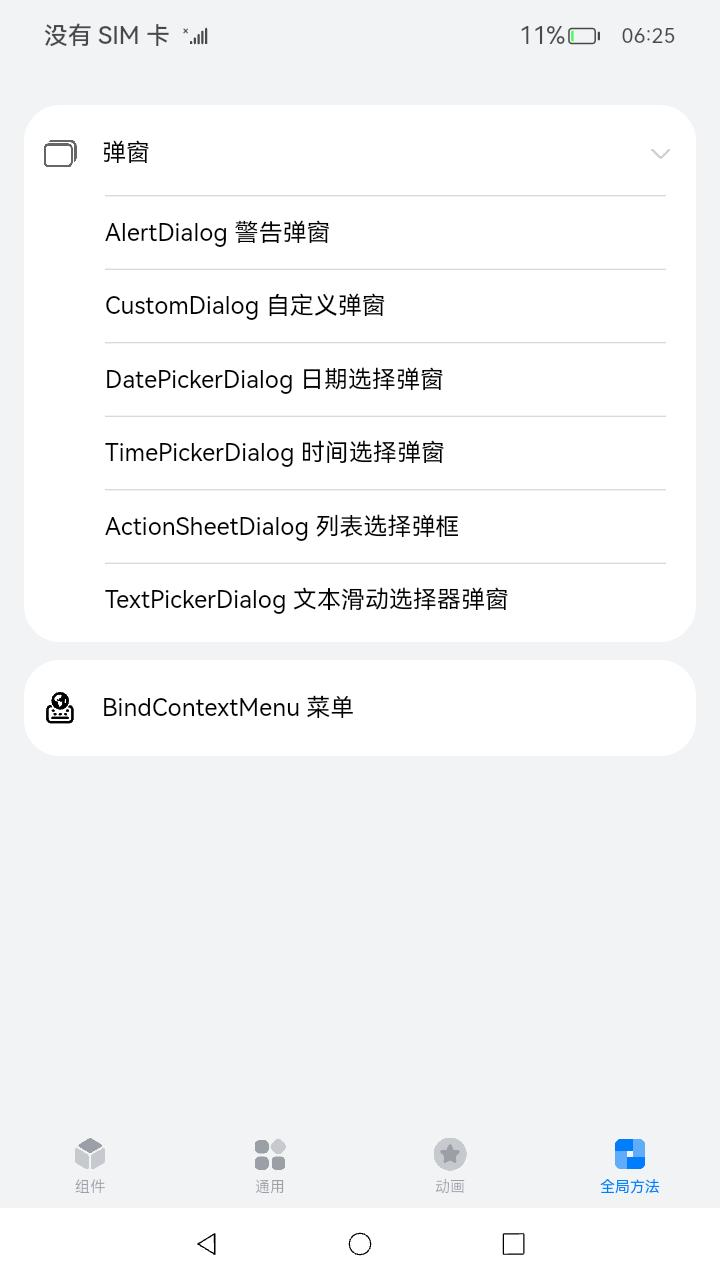
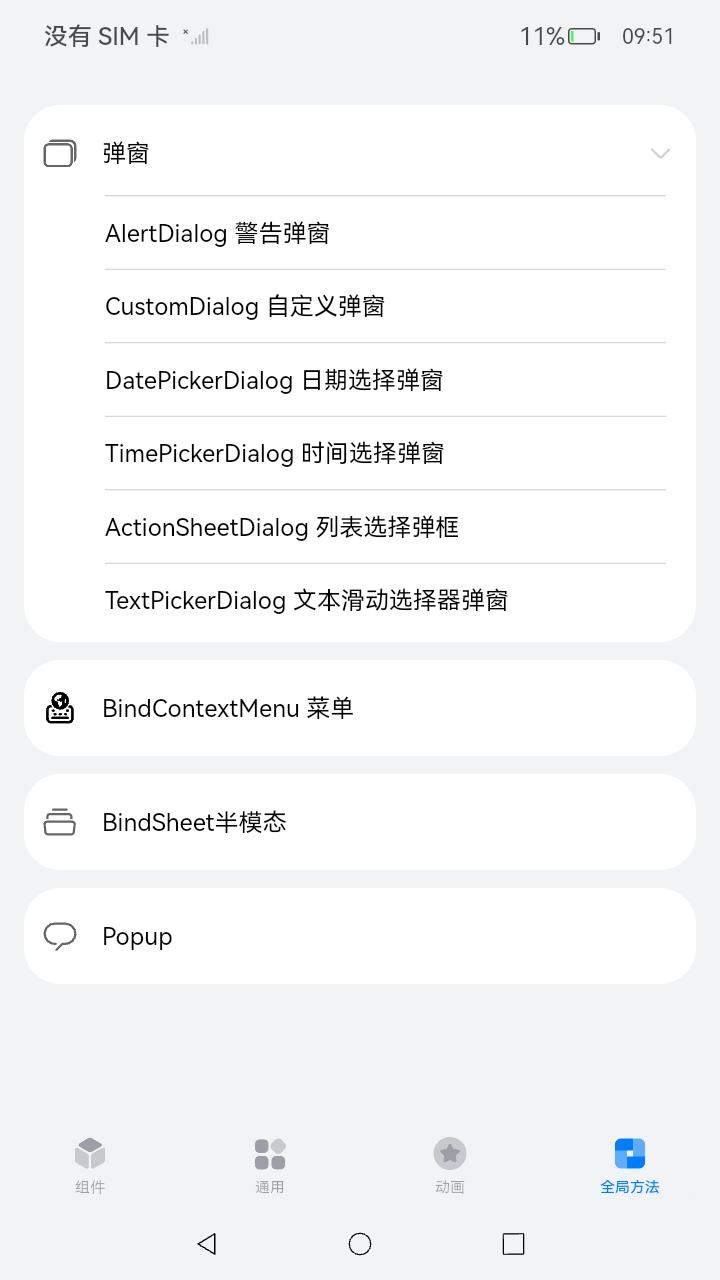
modify sample docs

diff --git a/code/UI/ArkTsComponentCollection/ComponentCollection/ohosTest.md b/code/UI/ArkTsComponentCollection/ComponentCollection/ohosTest.md
@@ -22,7 +22,7 @@
 | 验证LoadingProgress                  | 展开信息展示与动效，进入LoadingProgress           | 更改LoadingProgress的颜色                                                                               | 正确更改相应的颜色         | 是    | Pass |
 | 验证Marquee 跑马灯                      | 展开信息展示与动效，进入Marquee 跑马灯               | 更改Marquee样式，依次开始，停止跑马灯                                              | 正确反馈状态，依次运行，停止跑马灯 | 是    | Pass |
 | 验证TextTimer 文字计时器                  | 展开信息展示与动效，进入TextTimer 文字计时器           | 依次开始、暂停、重置、更换时间格式                                                   | 正确运行状态            | 是    | Pass |
-| 验证TextClock 文字时钟                   | 展开信息展示与动效，进入TextClock 文字时钟            | 依次点击开始、暂停、更改时钟样式                                                    | 正确运行状态并改变样式       | 是    | Pass |
+| 验证TextClock 文字时钟                   | 展开信息展示与动效，进入TextClock 文字时钟            | 依次点击开始、暂停、更改时钟样式、显示文字阴影、设置字体                                        | 正确运行状态并改变样式       | 是    | Pass |
 | 验证Progress 进度条                     | 展开信息展示与动效，进入Progress 进度条              | 调整进度条的进度                                                            | 正确显示进度条的进度        | 是    | Pass |
 | 验证Gauge 仪表盘                        | 展开信息展示与动效，进入Gauge 仪表盘                 | 调整仪表盘的value和strokeWidth                                             | 正确改变仪表盘的属性        | 是    | Pass |
 | 验证DataPanel 数据面板                   | 展开信息展示与动效，进入DataPanel 数据面板            |                                                                     | 正确显示数据面板动画        | 是    | Pass |
@@ -31,7 +31,7 @@
 | 验证ImageFit 切换                      | 展开信息展示与动效，进入ImageFit 切换         | 依次点击Radius按钮进行ImageFit模式切换                                                                           | ImageFit 模式切换成功   | 是    | Pass |
 | 验证Particle粒子效果                     | 展开信息展示与动效，进入Particle粒子效果         | 点击Particle粒子效果生成按钮                                                                                   | Particle粒子效果生成成功  | 是    | Pass |
 | 验证Span 行内文本                        | 展开文本与输入，进入Span 行内文本                   | 依次调整字符间距，装饰线类型，跨度线高度，颜色                                                                            | 依次改变对于属性          | 是    | Pass |
-| 验证TextInput 文本输入                   | 展开文本与输入，进入TextInput 文本输入              | 在输入框输入文本，可否选择对应文本段选中并高亮                                                                            | 正确显示输入文本          | 是    | Pass |
+| 验证TextInput 文本输入                   | 展开文本与输入，进入TextInput 文本输入              | 在输入框输入文本，可否选择对应文本段选中并高亮，长按文本获取、复制、粘贴文本，验证文本删除                                 | 正确显示输入文本          | 是    | Pass |
 | 验证Text 文本                          | 展开文本与输入，进入Text 文本                     | 依次更改字符间距，行高，对其类型，超长文本显示方式，装饰线，字体颜色，大小写                              | 依次更改对应属性          | 是    | Pass |
 | 验证RichText 富文本                     | 展开文本与输入，进入RichText 富文本                |                                                                     | 正确显示富文本           | 是    | Pass |
 | 验证ScrollBar 滚动条                    | 展开辅助，进入ScrollBar 滚动条                  | 依次纵向滚动，横向滚动                                                         | 正确滚动              | 是    | Pass |
@@ -103,12 +103,14 @@
 | 验证motionPath 路径动画                  | 进入motionPath 路径动画                     | 点击按钮                                                                | 按钮按照指定的路径发生改变     | 是    | Pass |
 | 验证ActionSheetDialogSample 列表选择弹框   | 展开弹窗，ActionSheetDialogSample 列表选择弹框   | 依次点击弹窗位置、是否关闭弹窗、偏移量、选项内容                                            | 正确展示响应弹窗          | 是    | Pass |
 | 验证TextPickerDialogSample 文本滑动选择器弹框 | 展开弹窗，TextPickerDialogSample 文本滑动选择器弹框 | 点击文字，滑动列表后点确定                                                       | 正确展示响应弹窗          | 是    | Pass |
-| 验证MenuSample 菜单                    | 展开弹窗，MenuSample 菜单                    | 鼠标右键点击、手指触摸长按                                                       | 正确展示响应弹窗          | 是    | Pass |
+| 验证MenuSample 菜单                    | 展开弹窗，MenuSample 菜单                    | 鼠标右键点击、手指触摸长按、调整menu宽度、选择纵向或者横向布局、长按图片1图片2     | 正确展示响应弹窗          | 是    | Pass |
+| 验证BindSheet半模态 | 进入BindSheet半模态 | 点击弹出样式、模糊背景材质设置属性，然后点击弹出半模态按钮，关闭允许页面交互按钮，下拉半模态界面，然后点击X退出半模态界面 | 正确显示效果 | 是 | Pass |
+| 验证Popup | 进入Popup                                           | 依次点击Popup高级组件按钮以及Placement下方的12个按钮         | 正确显示效果                       | 是       | Pass     |
 | 验证Swiper组件	                        | 展开滚动与滑动，进入swiper翻页	                   | 依次点击下一页、上一页、是否被禁用左右滑动切换功能、是否能纵向滑动、是否首尾循环、是否开启自动循环播放、滑动页面间隙、滑动切换的动画时长、自动播放的时间间隔、上下页边距               | 正确显示效果            | 是    | Pass |
-| 验证TextArea组件                       | 展开文本与输入，进入TextArea多行文本输入框             | 依次点击水平对齐、可否复制、placeholder文本颜色、输入框光标颜色、可否选择对应文本段选中并高亮                                               | 正确显示效果	           | 是    | Pass |
-| 验证PatternLock组件                    | 	展开文本与输入，进入PatternLock图案密码锁           | 依次滑动宫格宽高、圆点半径、连线宽度以及点击圆点未选中状态颜色、圆点激活状态颜色                                                             | 正确显示效果            | 是    | Pass |                            
-| 验证Search组件  	                      | 展开文本与输入，进入Search搜索框	                  | 依次点击水平对齐、可否复制、搜索框本文颜色	                                                                               | 正确显示效果            | 是    | Pass |                                               
-| 验证Row组件	                           | 展开行列与分栏，进入Row水平布局                     | 依次滑动元素间距以及点击交叉轴对齐样式、主轴对齐样式                                                                           | 正确显示效果            | 是    | Pass |                                             
+| 验证TextArea组件                       | 展开文本与输入，进入TextArea多行文本输入框             | 依次点击水平对齐、可否复制、placeholder文本颜色、输入框光标颜色、可否选择对应文本段选中并高亮、限制文本框输入字数                                | 正确显示效果	           | 是    | Pass |
+| 验证PatternLock组件                    | 	展开文本与输入，进入PatternLock图案密码锁           | 依次滑动宫格宽高、圆点半径、连线宽度以及点击圆点未选中状态颜色、圆点激活状态颜色                                                             | 正确显示效果            | 是    | Pass |
+| 验证Search组件  	                      | 展开文本与输入，进入Search搜索框	                  | 依次点击水平对齐、可否复制、搜索框本文颜色	                                                                               | 正确显示效果            | 是    | Pass |
+| 验证Row组件	                           | 展开行列与分栏，进入Row水平布局                     | 依次滑动元素间距以及点击交叉轴对齐样式、主轴对齐样式                                                                           | 正确显示效果            | 是    | Pass |
 | 验证RowSplit组件                       | 	进入RowSplit水平分割布局                     | 	点击拖拽开关                                                                                              | 	正确显示效果           | 是    | Pass |
 | 验证Column组件	                        | 进入Column垂直布局	                         | 依次滑动元素间距以及点击交叉轴对齐样式、主轴对齐样式                                                                           | 	正确显示效果           | 是    | Pass |
 | 验证ColumnSplit组件	                   | 进入ColumnSplit垂直分割布局	                  | 点击拖拽开关	                                                                                              | 正确显示效果            | 是    | Pass |
@@ -119,7 +121,7 @@
 | 验证List组件	                          | 展开列表与宫格，进入List列表容器	                   | 依次点击修改List参数中所有参数设置	                                                                                 | 正确显示效果            | 是    | Pass |
 | 验证ListItem组件                       | 	展开列表与宫格，进入Listitem	                  | 依次点击selectable	                                                                                      | 正确显示效果            | 是    | Pass |
 | 验证Grid组件	                          | 展开列表与宫格，进入Grid	                       | 依次点击columnsTemplate、rowsTemplate以及滑动columnGap	                                                       | 正确显示效果            | 是    | Pass |
-| 验证GridItem组件	                      | 展开列表与宫格，进入GridItem	                   | 依次点击修改起始行号、修改终点行号、修改起始列号、修改终点列号	                                                                     | 正确显示效果            | 是    | Pass |
+| 验证GridItem组件	                      | 展开列表与宫格，进入GridItem	                   | 依次点击修改起始行号、修改终点行号、修改起始列号、修改终点列号，选择多态样式	                                                            | 正确显示效果            | 是    | Pass |
 | 验证Navigation组件	                    | 展开导航、进入Navigation                     | 	点击去往第二个页面                                                                                           | 	正确显示效果           | 是    | Pass |
 | 验证Tabs组件                           | 展开导航，进入Tabs	                          | 依次点击修改Tabs的参数中的各个参数设置                                                                                | 正确显示效果            | 是    | Pass |
 | 验证TabContent组件	                    | 展开导航，进入TabContent	                    | 点击子页签/底部页签切换器	                                                                                       | 正确显示效果            | 是    | Pass |
@@ -136,5 +138,5 @@
 | 验证Image组件	                         | 展开图片视频与媒体，进入Image图片	                  | 依次点击缩放类型以及滑动裁剪高度、裁剪宽度以及点击渲染模式、重复样式	                                                                  | 正确显示效果            | 是    | Pass |
 | 验证ImageAnimator组件	                 | 展开图片视频与媒体，进入ImageAnimator逐帧播放图片       | 	依次点击start、pause、end、reserve、single、circulate	                                                       | 正确显示效果            | 是    | Pass |
 | 验证Video组件	                         | 展开图片视频与媒体，进入Video视频	                  | 依次点击自动播放、控制栏显示、静音、循环播放、视频显示模式、倍速	                                                                    | 正确显示效果            | 是    | Pass |
-| 验证XComponent组件	                    | 展开图片视频与媒体，进入XComponent绘制组件            | 	无操作	                                                                                                | 正确显示效果            | 是    | Pass |                                                                                    
-| 验证web组件	                           | 展开网页，进入web网页                          | 	无操作                                                                                                 | 	正确显示效果           | 是    | Pass |                                                           
+| 验证XComponent组件	                    | 展开图片视频与媒体，进入XComponent绘制组件            | 	无操作	                                                                                                | 正确显示效果            | 是    | Pass |
+| 验证web组件	                           | 展开网页，进入web网页                          | 	无操作                                                                                                 | 	正确显示效果           | 是    | Pass |

diff --git a/code/UI/ArkTsComponentCollection/ComponentCollection/README_zh.md b/code/UI/ArkTsComponentCollection/ComponentCollection/README_zh.md
@@ -310,6 +310,10 @@ entry/src/main/ets/
 |   |   |   |   |---TextPickerDialogSample.ets           // 文本滑动选择器弹窗
 |   |   |   |---menuSample
 |   |   |   |   |---MenuSample.ets                       // 菜单
+|   |   |   |---bindSheetSample
+|   |   |   |   |---BindSheetSample.ets                  // 半模态
+|   |   |   |---popUpSample
+|   |   |   |   |---PopUpSample.ets                      // Popup
 |   |---universal                                        // 详情页面
 |   |   |---UniversialData.ets
 |   |   |---events
@@ -478,6 +482,19 @@ entry/src/main/ets/
         * 弹窗
             * 使用全局组件ShowToast，TitleBar，IntroductionTitle实现弹窗组件页面
             * 使用getStringArrayData，getStringData获取数据[ResourceDataHandle.ets](entry/src/main/ets/data/ResourceDataHandle.ets)
+            
+        * 半模态
+        
+            * 使用全局组件TitleBar，IntroductionTitle实现半模态组件页面
+            * 接口参考：[bindSheet](https://gitee.com/openharmony/docs/blob/master/zh-cn/application-dev/reference/arkui-ts/ts-universal-attributes-sheet-transition.md)
+        
+        * Popup
+        
+            * 使用全局组件TitleBar，IntroductionTitle实现Popup组件页面
+        
+            * 接口参考：[bindPopup ](https://gitee.com/openharmony/docs/blob/master/zh-cn/application-dev/reference/arkui-ts/ts-universal-attributes-popup.md)，[Popup高级组件](https://gitee.com/openharmony/docs/blob/master/zh-cn/application-dev/reference/arkui-ts/ohos-arkui-advanced-popup.md)
+        
+              
 
 ### 相关权限
 
@@ -495,12 +512,12 @@ entry/src/main/ets/
 
 1.本示例仅支持标准系统上运行，支持设备：RK3568。
 
-2.本示例仅支持API10版本SDK，SDK版本号(API Version 10 Release),镜像版本号(4.0Release)
+2.本示例仅支持API11版本SDK，SDK版本号(4.1.6.1 Beta1),镜像版本号( OpenHarmony 4.1.6.1)。
 
 3.本示例涉及使用系统接口，FormComponent组件相关接口，需要手动替换Full
 SDK才能编译通过，具体操作可参考[替换指南](https://gitee.com/openharmony/docs/blob/master/zh-cn/application-dev/faqs/full-sdk-switch-guide.md)。
 
-4.本示例需要使用DevEco Studio 版本号(4.0Release)及以上版本才可编译运行。
+4.本示例需要使用DevEco Studio 版本号(3.1.1 Release)及以上版本才可编译运行。
 
 5.本示例涉及ohos.permission.GET_BUNDLE_INFO_PRIVILEGED、ohos.permission.REQUIRE_FORM为system_basic级别（相关权限级别可通过[权限定义列表](https://gitee.com/openharmony/docs/blob/master/zh-cn/application-dev/security/permission-list.md)
 查看），需要配置高权限签名，可参考[应用apl等级说明](https://gitee.com/openharmony/docs/blob/master/zh-cn/application-dev/security/accesstoken-overview.md#应用apl等级说明)。
